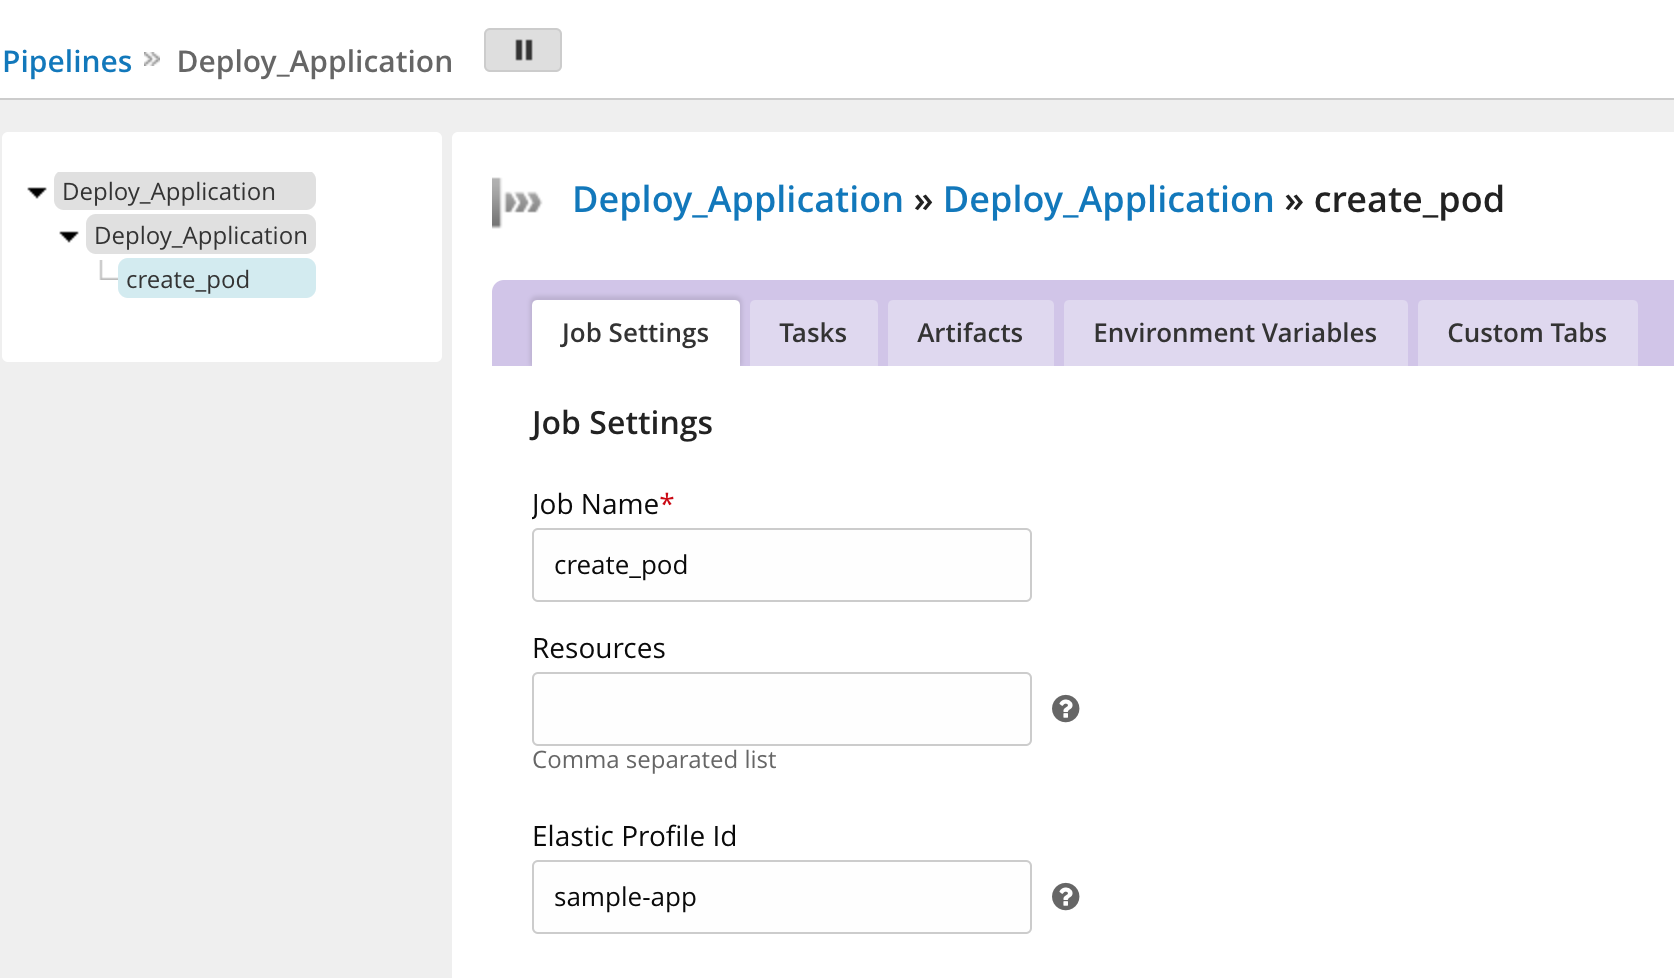
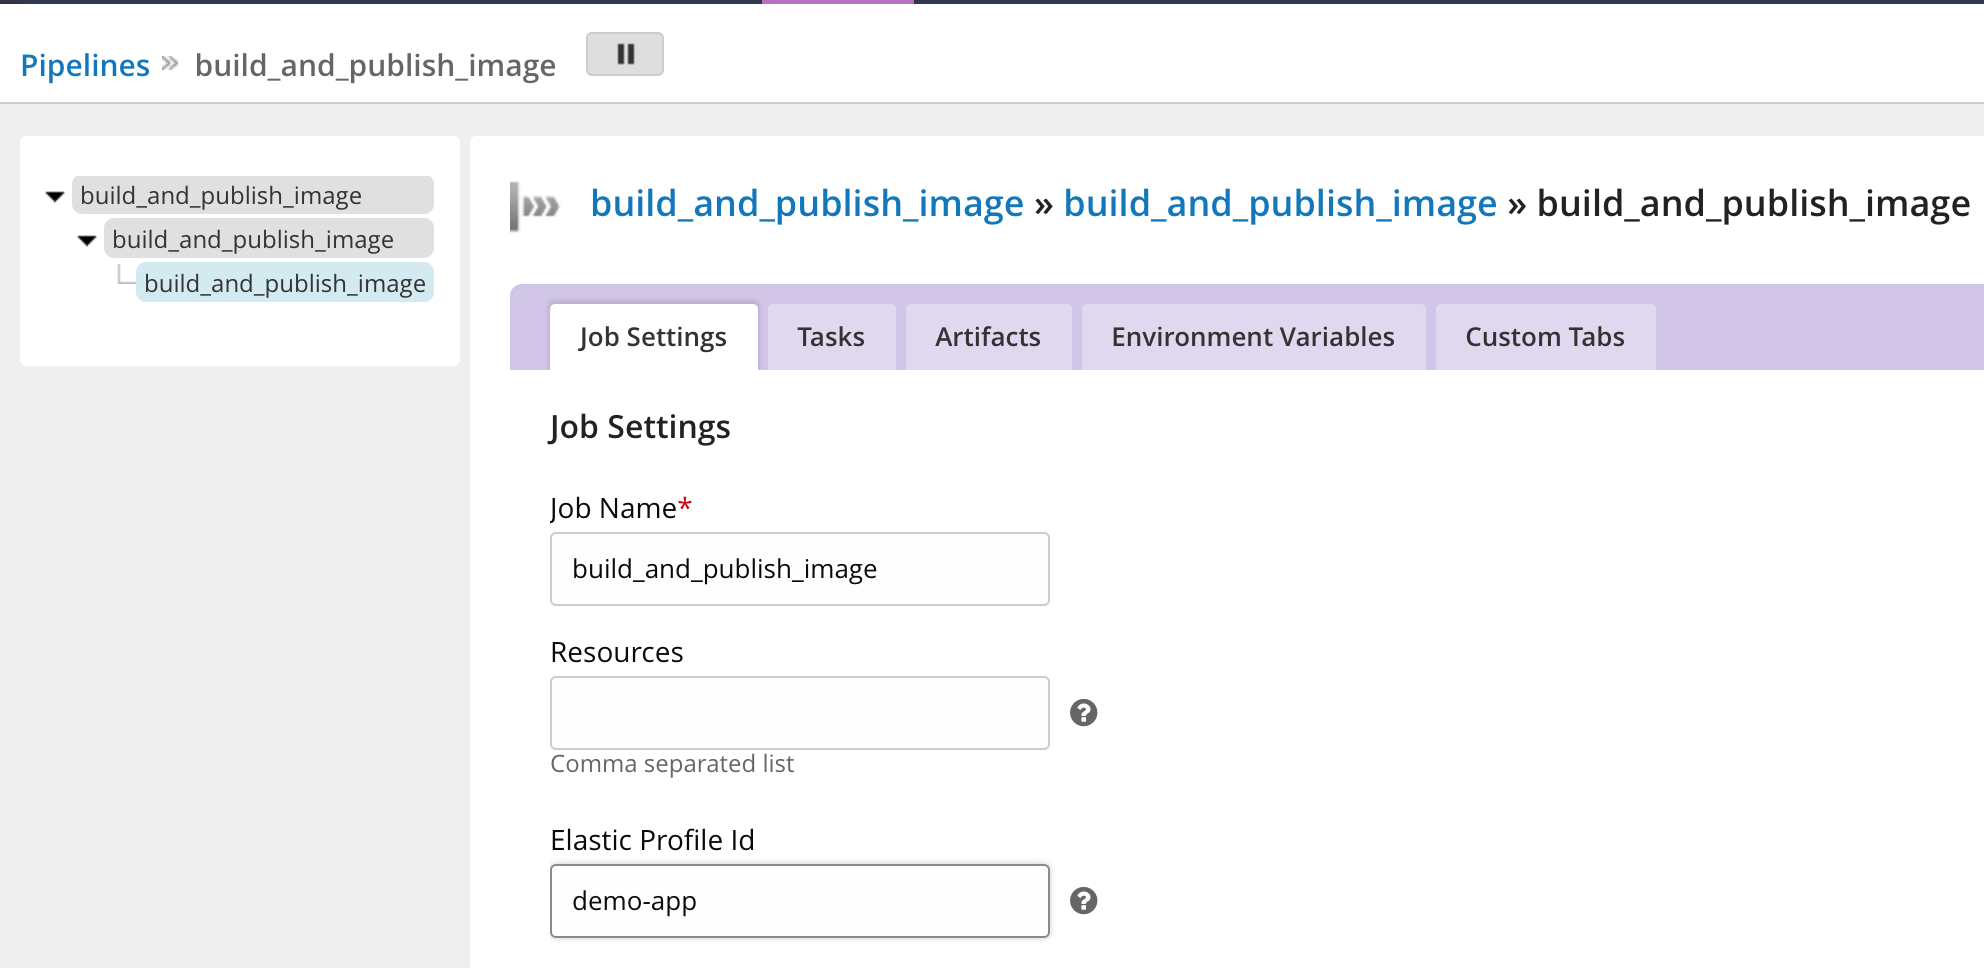
Add configure build pipeline docs.

diff --git a/gocd_on_kubernetes/designing_a_cd_pipeline/creating_a_build_pipeline.md b/gocd_on_kubernetes/designing_a_cd_pipeline/creating_a_build_pipeline.md
@@ -1,0 +1,68 @@
+---
+description: The GoCD Helm Chart page explains how to get started with GoCD for kubernetes using Helm.
+keywords: gocd helm chart, cd pipeline
+---
+# Creating a build pipeline
+
+Now that you have accessed the dashboard successfully and created your elastic agent profiles, you’re ready to start creating your build pipeline. 
+
+## Configuring your build pipeline
+
+In this example, we’ll create a pipeline that will be used for building a docker image from a dockerfile and pushing it to DockerHub. 
+
+You can follow the steps below to configure your build pipeline. 
+
+- Specify the pipeline name and the group name. 
+
+![](../../resources/images/gocd-helm-chart/pipeline_wizard_add_pipeline.png)
+
+- Specify a git material with repository `https://github.com/bdpiparva/node-bulletin-board`
+
+![](../../resources/images/gocd-helm-chart/pipeline_wizard_add_material.png)
+
+- Create a stage called `build_and_publish_image`
+
+![](../../resources/images/gocd-helm-chart/pipeline_wizard_add_stage.png)
+
+- Create a job called `build_and_pubish_image` with an initial task argument `docker build -t $DOCKERHUB_USERNAME/bulletin-board:$GO_PIPELINE_LABEL . -f Dockerfile.application`.
+The `GO_PIPELINE_LABEL` is an environment variable provided by GoCD which can be used to differentiate between builds from a repository. Here we are using that to determine the application image tag.
+
+*Note: This is the job that we have to associate with the elastic agent profile that we created earlier.*  
+
+![](../../resources/images/gocd-helm-chart/pipeline_wizard_add_job.png)
+
+- Once you click on Finish, your pipeline is created! 
+
+At this point, we have created a pipeline but we need to configure the tasks to actually push the image to DockerHub. To do this,
+
+- Configure the `DOCKERHUB_USERNAME` and `DOCKERHUB_PASSWORD` as environment variables
+
+![](../../resources/images/gocd-helm-chart/configure_env_vars.png)
+
+- Add the following task in the screenshot below to test the image.
+
+*Note:Choose the More option in the Add New Task dropdown*
+
+![](../../resources/images/gocd-helm-chart/docker_test.png)
+
+- Add the following tasks shown in the screenshots below to push the image to Dockerhub
+
+![](../../resources/images/gocd-helm-chart/docker_login.png)
+
+![](../../resources/images/gocd-helm-chart/docker_push.png)
+
+## Associate the job with the elastic profile
+
+Before you can run the pipeline, you’ll need to make sure you have associated the [elastic profile]((../gocd_helm_chart/configure_k8s_ea_plugin.md#create-an-elastic-profile)) we previously with the job to be executed. In our example of building a pipeline for GoCD on Kubernetes, we’ve used `build_and_publish_image` . Once you’ve associated the job to the profile, you’re ready to run the pipeline.
+
+![](../../resources/images/gocd-helm-chart/associate_job_with_profile.png)
+
+
+## Verifying your build pipeline
+
+Now that the build pipeline is configured, we can run it and verify that the docker image has been pushed. To run the pipeline, `unpuase` the pipeline in the GoCD dashboard. The changes in the source git repository get picked up automatically when the pipeline is triggered.
+
+Once the pipeline run is finished, you can go to your DockerHub account to verify if the image has been pushed.
+
+
+
